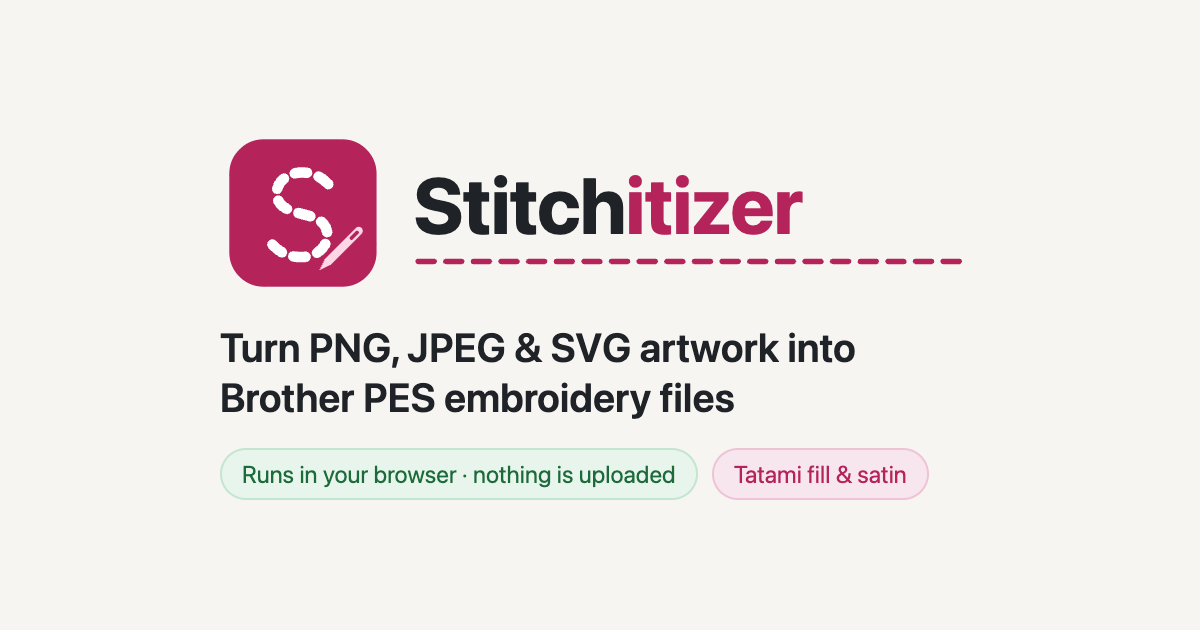
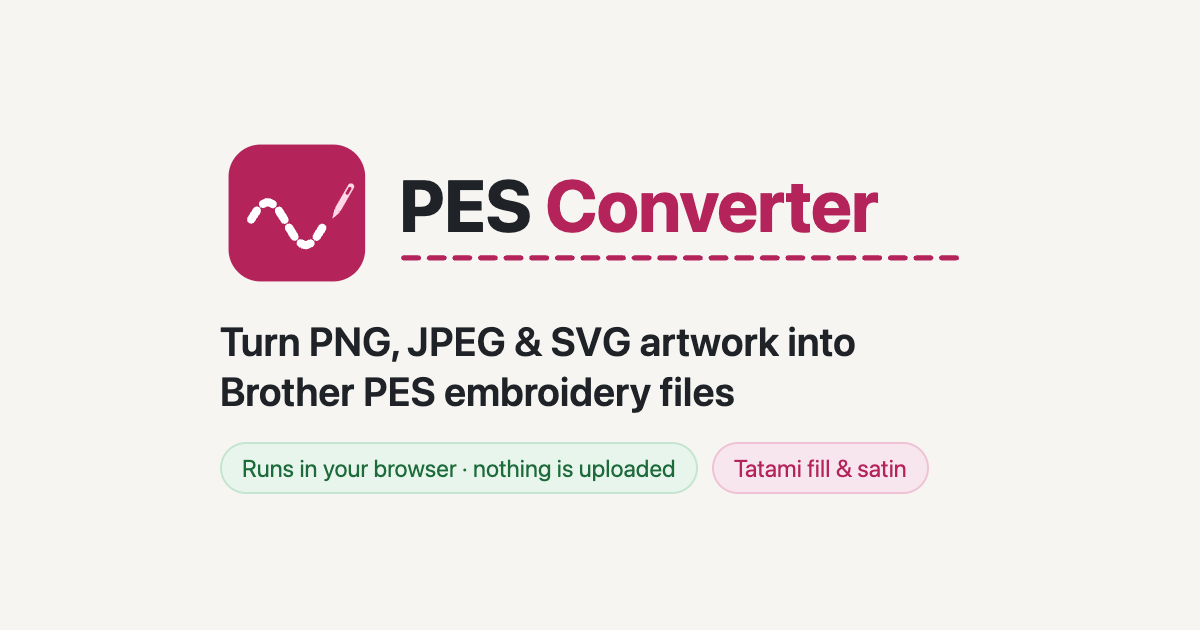
Rename project from Stitchitizer to PES Converter and update related assets

Changed region(s): [[0.185, 0.2111, 0.8017, 0.4825], [0.185, 0.6937, 0.7708, 0.8143], [0.185, 0.5127, 0.7092, 0.6635]]

diff --git a/index.html b/index.html
@@ -7,11 +7,11 @@
        (connect-src 'none', no forms, no external resources). Images are processed in the browser. -->
   <meta http-equiv="Content-Security-Policy" content="default-src 'self'; script-src 'self'; style-src 'self' 'unsafe-inline'; img-src 'self' blob: data:; font-src 'self'; connect-src 'none'; media-src 'none'; object-src 'none'; worker-src 'none'; frame-src 'none'; form-action 'none'; base-uri 'none'">
   <meta name="referrer" content="no-referrer">
-  <title>Stitchitizer — turn images into embroidery files, privately in your browser</title>
+  <title>PES Converter — turn images into embroidery files, privately in your browser</title>
   <meta name="description" content="Convert PNG, JPEG or SVG images into Brother PES embroidery files with tatami fill and satin stitches. Everything runs in your browser — your images are never uploaded or stored.">
   <meta name="theme-color" content="#b4235a">
   <meta property="og:type" content="website">
-  <meta property="og:title" content="Stitchitizer — image to embroidery, privately in your browser">
+  <meta property="og:title" content="PES Converter — image to embroidery, privately in your browser">
   <meta property="og:description" content="Turn PNG, JPEG or SVG artwork into Brother PES embroidery files. Nothing is uploaded: all processing happens on your device.">
   <meta property="og:image" content="assets/og-image.png">
   <meta name="twitter:card" content="summary_large_image">
@@ -23,8 +23,8 @@
   <header class="topbar">
     <div class="brand">
       <img src="assets/logo-mark.svg" width="30" height="30" alt="">
-      <span class="wordmark">Stitch<em>itizer</em></span>
-      <small>image → PES embroidery</small>
+      <span class="wordmark">PES <em>Converter</em></span>
+      <small>image → embroidery file</small>
       <span class="private" title="Images are processed entirely on your device. Nothing is uploaded, and nothing is stored unless you ask the app to remember your settings.">
         <svg viewBox="0 0 24 24" width="13" height="13" aria-hidden="true"><path d="M7 11V8a5 5 0 0110 0v3M6 11h12v9H6z" fill="none" stroke="currentColor" stroke-width="2" stroke-linejoin="round"/></svg>
         Runs in your browser · nothing is uploaded

diff --git a/js/app.js b/js/app.js
@@ -5,7 +5,7 @@
   const $ = (id) => document.getElementById(id);
   // Settings are only kept if the user opts in ("Remember my settings on this device").
   // Images and designs are never stored anywhere.
-  const STORE = 'stitchitizer-settings-v1';
+  const STORE = 'pes-converter-settings-v2';
 
   // settings grouped by which pipeline stage they invalidate
   const IMAGE_KEYS = ['colors', 'mergeSimilar', 'foldTinyColors', 'mergeBlends', 'background', 'snapToThreads', 'smoothing', 'minRegion'];
@@ -51,13 +51,13 @@
     try { localStorage.setItem(STORE, JSON.stringify(state.settings)); } catch (e) { /* private mode */ }
   }
   function forget() {
-    try { localStorage.removeItem(STORE); localStorage.removeItem('pes-converter-settings-v1'); } catch (e) { /* ignore */ }
+    try { for (const k of [STORE, 'pes-converter-settings-v1', 'stitchitizer-settings-v1', 'threadwise-settings-v1']) localStorage.removeItem(k); } catch (e) { /* ignore */ }
   }
   function load() {
     try {
       const s = JSON.parse(localStorage.getItem(STORE) || 'null');
       if (s) { Object.assign(state.settings, s); remember = true; }
-      localStorage.removeItem('pes-converter-settings-v1'); // drop data from the pre-opt-in version
+      for (const old of ['pes-converter-settings-v1', 'stitchitizer-settings-v1', 'threadwise-settings-v1']) localStorage.removeItem(old); // drop data saved under earlier names
     } catch (e) { /* ignore */ }
     $('rememberSettings').checked = remember;
     for (const k of [...IMAGE_KEYS, ...STITCH_KEYS, ...ASM_KEYS, 'widthMM', 'hoop']) writeInput(k, state.settings[k]);

diff --git a/README.md b/README.md
@@ -1,4 +1,4 @@
-# Stitchitizer
+# PES Converter
 
 **Turn PNG, JPEG or SVG artwork into Brother `.pes` embroidery files, privately in your browser.**
 
